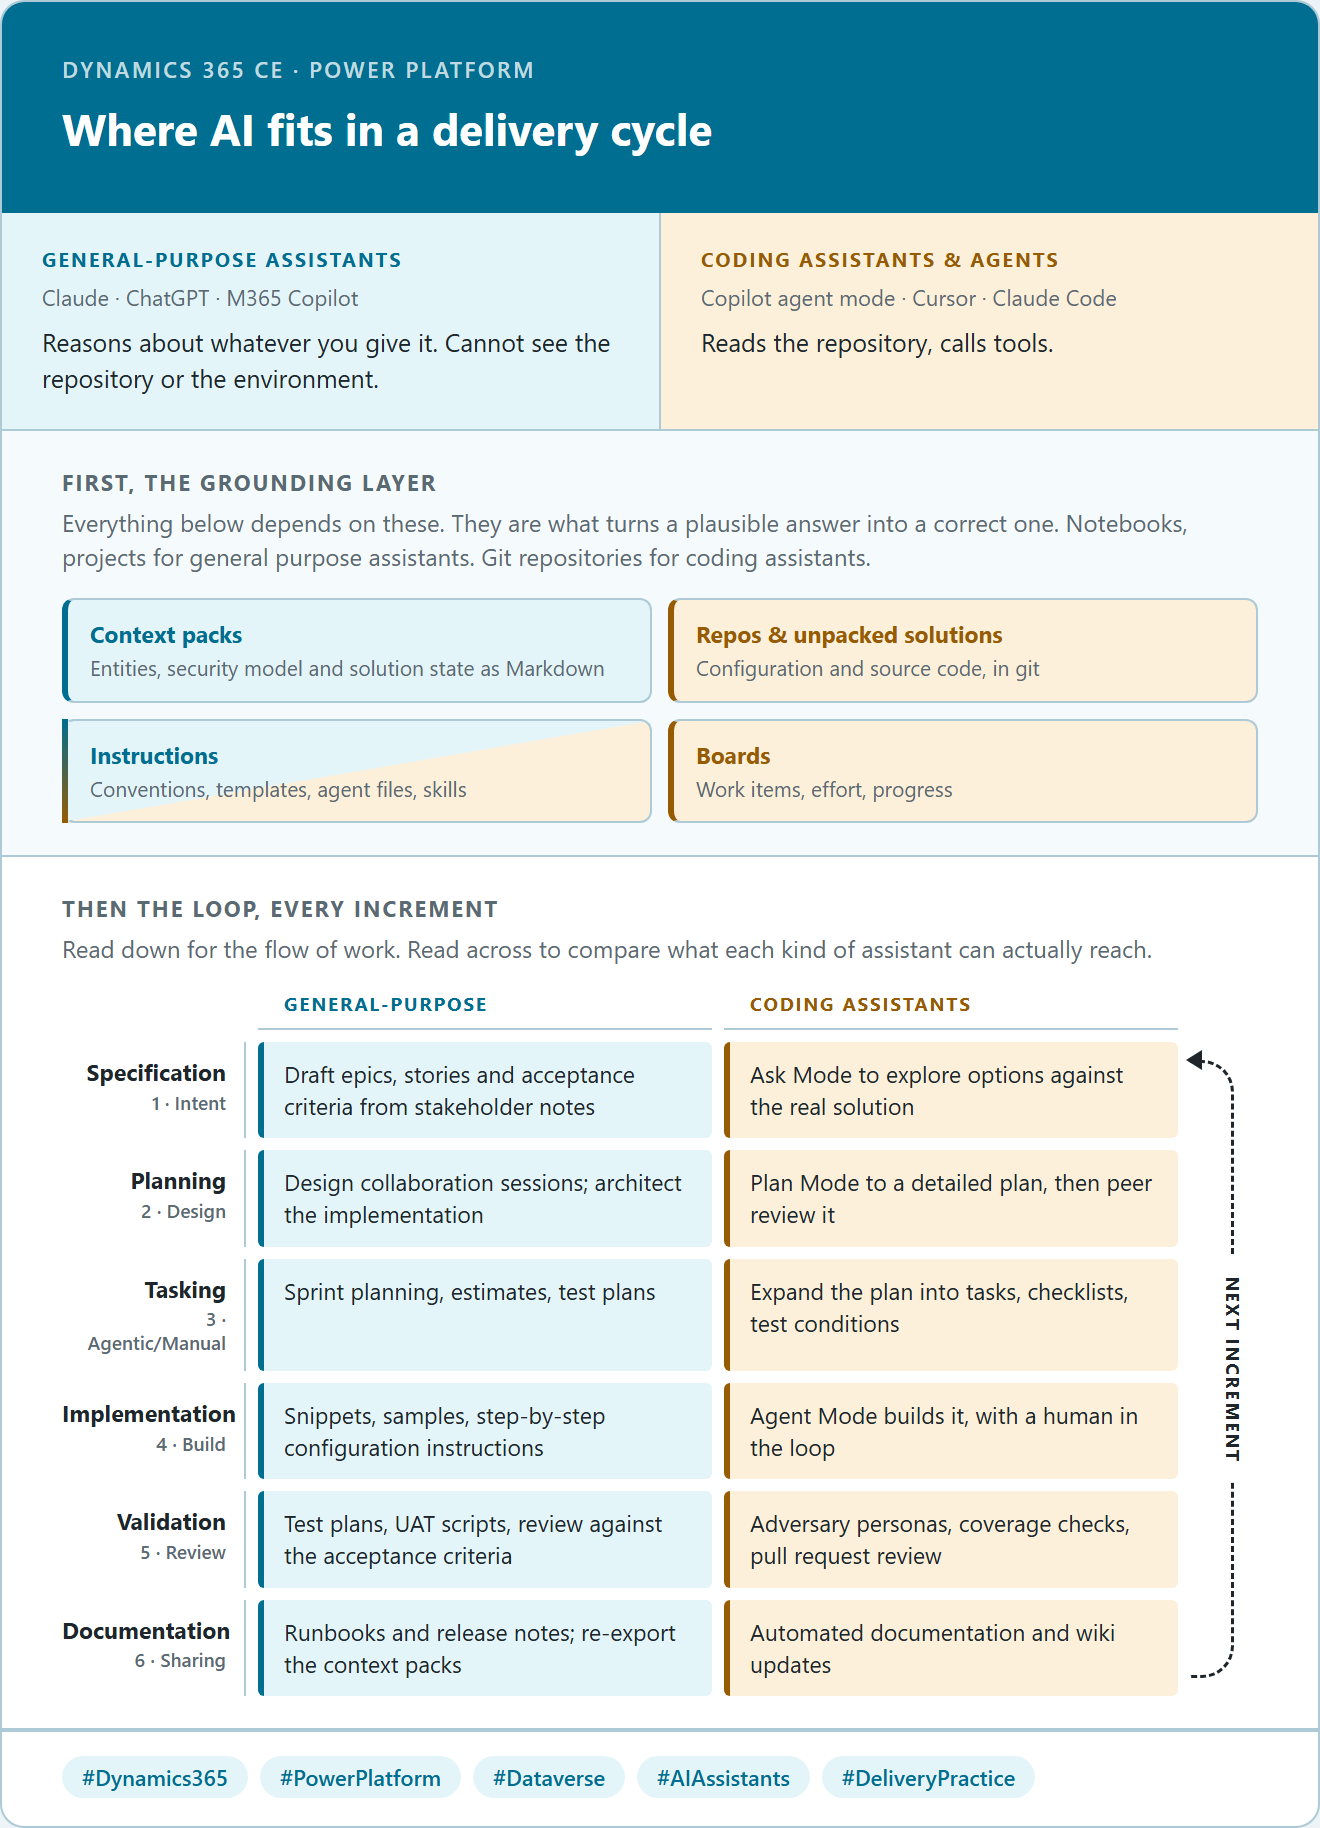
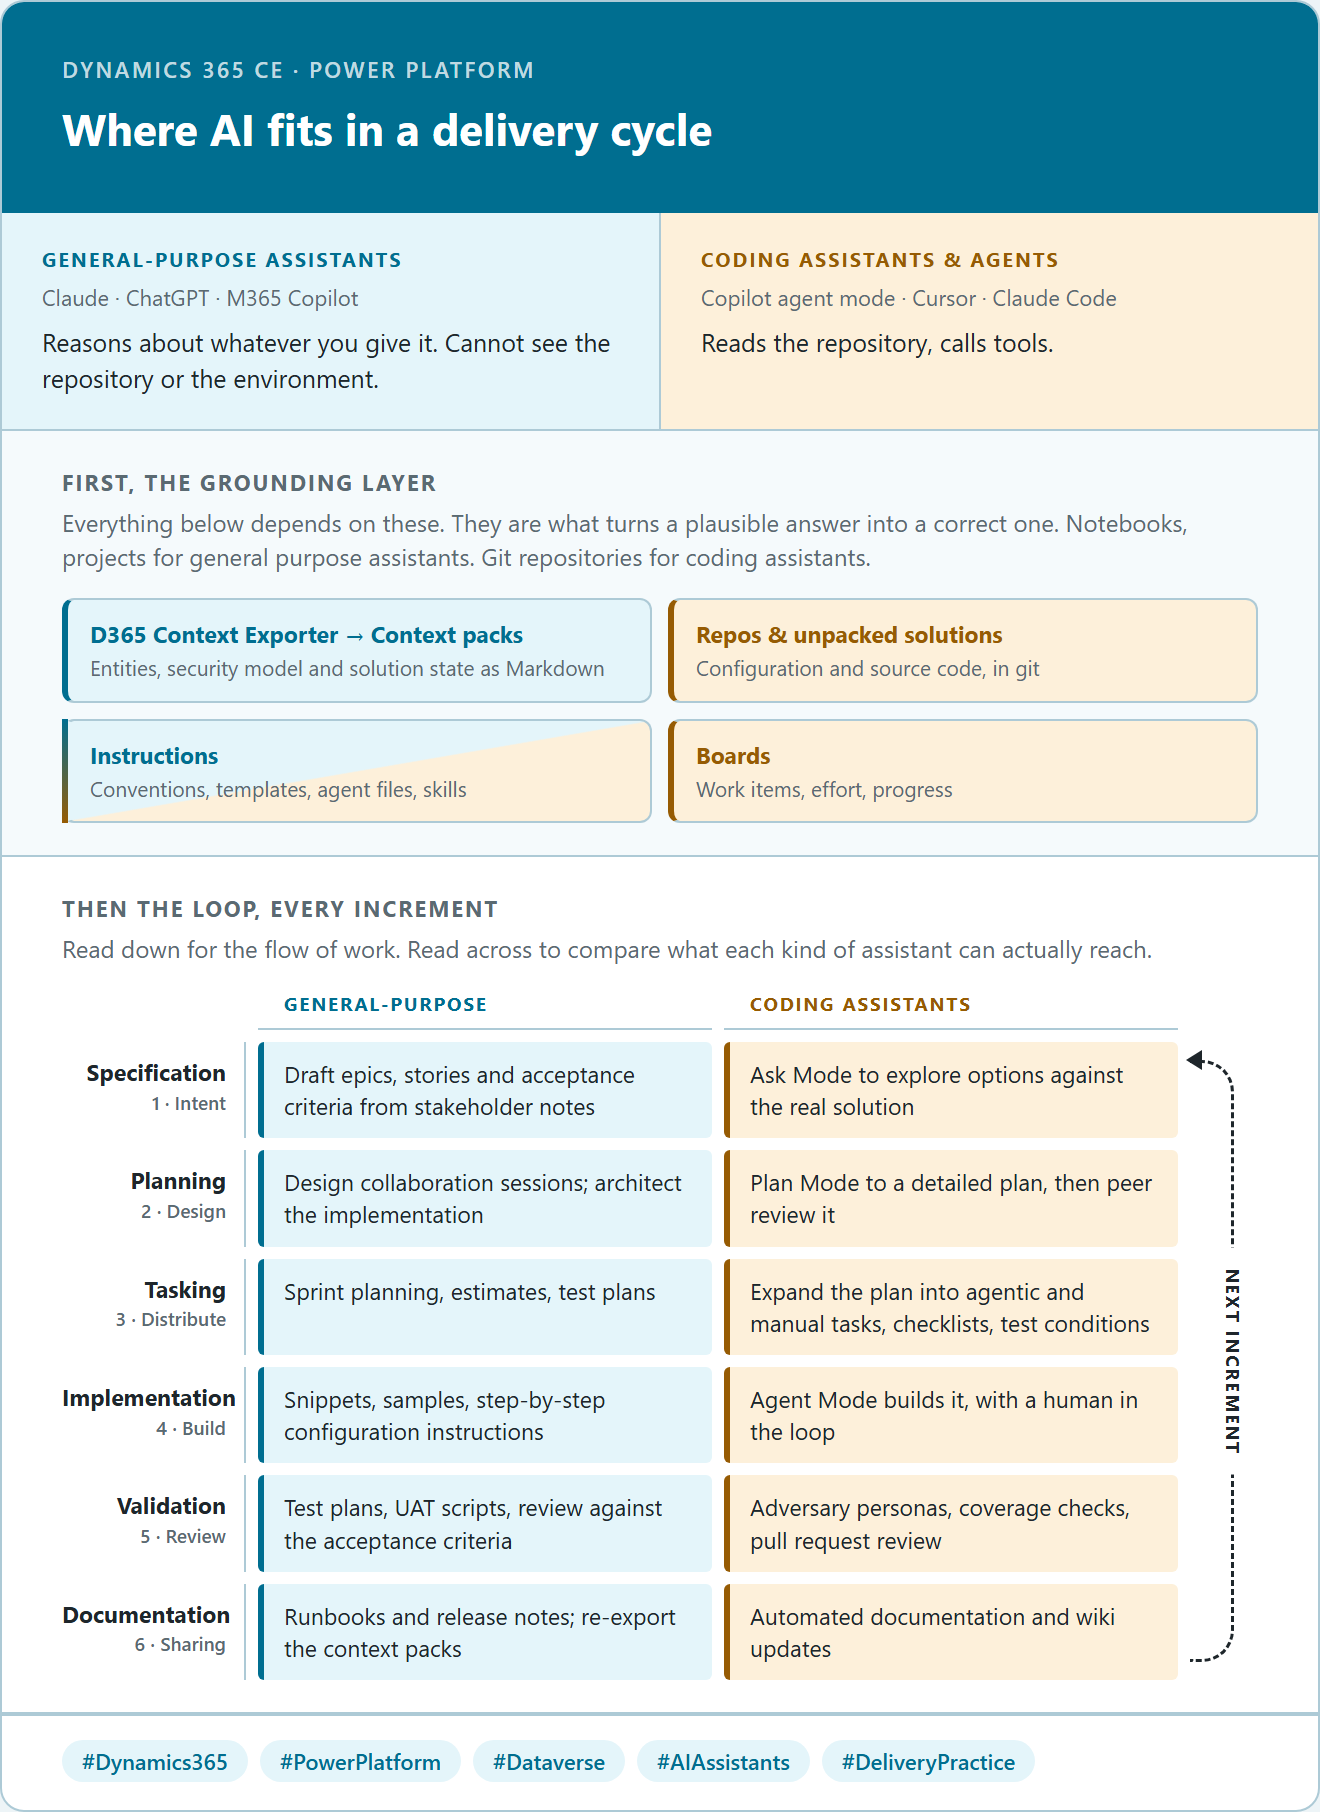
Updates.

diff --git a/workflows/matrix-simple.html b/workflows/matrix-simple.html
@@ -222,7 +222,7 @@
     <div class="section-note">Everything below depends on these. They are what turns a plausible answer into a correct one. Notebooks, projects for general purpose assistants. Git repositories for coding assistants.</div>
     <div class="chips">
       <div class="chip one">
-        <div class="chip-name">Context packs</div>
+        <div class="chip-name">D365 Context Exporter &rarr; Context packs</div>
         <div class="chip-desc">Entities, security model and solution state as Markdown</div>
       </div>
       <div class="chip three">
@@ -257,9 +257,9 @@
       <div class="act one">Design collaboration sessions; architect the implementation</div>
       <div class="act three">Plan Mode to a detailed plan, then peer review it</div>
 
-      <div class="phase">Tasking<span>3 · Agentic/Manual</span></div>
+      <div class="phase">Tasking<span>3 · Distribute</span></div>
       <div class="act one">Sprint planning, estimates, test plans</div>
-      <div class="act three">Expand the plan into tasks, checklists, test conditions</div>
+      <div class="act three">Expand the plan into agentic and manual tasks, checklists, test conditions</div>
 
       <div class="phase">Implementation<span>4 · Build</span></div>
       <div class="act one">Snippets, samples, step-by-step configuration instructions</div>
